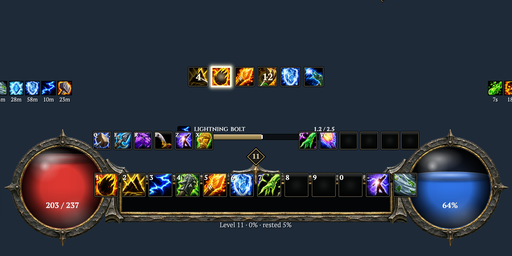
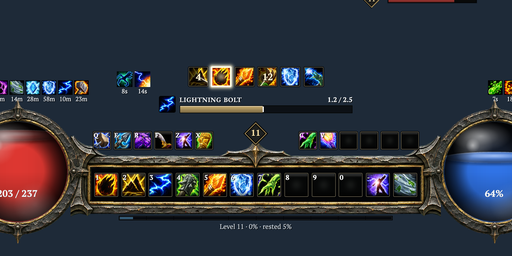
docs(release): v0.1.0 changelog, release notes and refreshed HUD style pictures

diff --git a/CHANGELOG.md b/CHANGELOG.md
@@ -1,5 +1,40 @@
 # KstyleUI changelog
 
+## v0.1.0 (2026-11-13)
+
+This is the overhaul. KstyleUI now has two HUD styles, Frames and Orbs, that you pick in Options and in the first-run setup, and almost every part of the screen was redrawn to match them: cleaner bars, new nameplates, a group damage meter and an interface size that lands exactly on whole screen pixels.
+
+### Added
+
+- Two HUD styles to choose from. Frames keeps the framed player and target cards. Orbs puts health and resource in two orbs with a forged tray round your first action bar. Options > General shows a picture of each style and the first-run setup has a HUD style step, so you see what you are picking.
+- A group damage meter in the style of Details: one card with a bar per player, a switch between this fight, the last fight and the whole session, and the spell split under each row. The threat card follows the same design.
+- Nameplates redrawn: plain, flat bars with tracked capital names, a black track while you hold threat, cast and stop flashes, and a name-only plate for objects such as a mailbox that can never fill a bar.
+- A wide target bar at the top of the screen under Orbs, and a wide form of the target frame under Frames.
+- Ultrawide screens choose between Centred and Spread. Centred keeps the HUD in the 21:9 band in the middle of a 32:9 monitor. Spread uses the whole width and keeps your group frames on the 21:9 line.
+- One shared action slot for the action bars and the cooldown rows, with a pressed state, a proc glow, a lit sweep edge and a gilt flash when an ability is ready again.
+- Combat text with white hits, gold crits and a short rise.
+- Buffs sorted by how you use them.
+
+### Changed
+
+- The unit bars are clean: health and resource fill with a held loss band, a flash on a hit and a warning curve at low health. The target fills from the left, cast bars are taller, and party and raid frames use the same bars with a low-health glow.
+- Interface size Auto now picks the size that fits your screen exactly and keeps every frame, bar, slot, aura and combat text on whole screen pixels. Under Orbs it reaches the same size as under Frames.
+- The experience strip is clean, the readout sits on the world, and the micro menu shows only when you need it.
+- Party frames sit at mid-left, and the right rail leaves room for four quests with the threat card off the centre.
+- Tooltips, windows and the quest card share one card design. Tooltip headings, window headings, dropdown chevrons, bag and chat headings and in-tile aura counts were redrawn to match.
+- Class colours on names are easier to read, and spell and cast labels no longer use Cinzel.
+- Text is never drawn below 11 pixels at 1080 lines, and the Meters sample fits the settings pane.
+- Options names only Frames and Orbs as HUD styles.
+
+### Fixed
+
+- The RestedXP guide step arrow is set in the number face and the steps are pitched like the quest card, and RestedXP's steps frame is sized so it enables under the rail.
+- The damage card shows short whole numbers in and out of combat.
+- Nameplates no longer dart about: the plate scale settings are held at 1 while plates ignore that scale.
+- Baine fixed two things and we ported them: minimap buttons now move onto the square map's shape even when they were made before KstyleUI loaded, and the drawer collects the buttons Blackthornes and 0xgle Bugs draw themselves, and hands them back as they were. Baine also fixed nameplates for game objects. Thank you, Baine.
+- The unit frames' bars no longer carry an ornament around them.
+- The chat tab and its wash sit inside the chat card.
+
 ## v0.0.7 (2026-11-13)
 
 A small release that fixes two things in the cooldown and buff displays.

diff --git a/docs/RELEASE_NOTES.md b/docs/RELEASE_NOTES.md
@@ -2,6 +2,10 @@
 
 The player-facing notes for every release are in [`CHANGELOG.md`](../CHANGELOG.md). The packager reads that file, so the GitHub release carries the whole file. The owner tags a release on `main` after the in-game test of `staging` passes, as [`TESTING.md`](TESTING.md) describes.
 
+## 0.1.0: the HUD overhaul
+
+KstyleUI has two HUD styles, Frames and Orbs, picked in Options and in the first-run setup. Bars, nameplates, the group damage meter and the action slots were redrawn, the interface size Auto lands on whole screen pixels, and ultrawide screens choose between a Centred and a Spread arrangement. It needs Forever (TOC `16001`). The full list is in [`CHANGELOG.md`](../CHANGELOG.md); the minimap and nameplate fixes in it are Baine's.
+
 ## 0.0.5: the first public release
 
 KstyleUI restyles the whole World of Warcraft: Forever interface in one Diablo IV-style forged look: dark cards and windows with forged iron brackets (the card material is a setting), a type set you choose in Options (Folio by default, Lumen as an alternative) and forged ornaments at Off, Subtle or Full. The default layout lines the interface up in rails: chat and your party on the left, your hands at the centre, and the map, buffs, readout and story card on the right. It needs Forever (TOC `16001`). The repainted icons are an optional second download, `KstyleUI-Icons-<version>.zip`; see [`icons.md`](icons.md).
